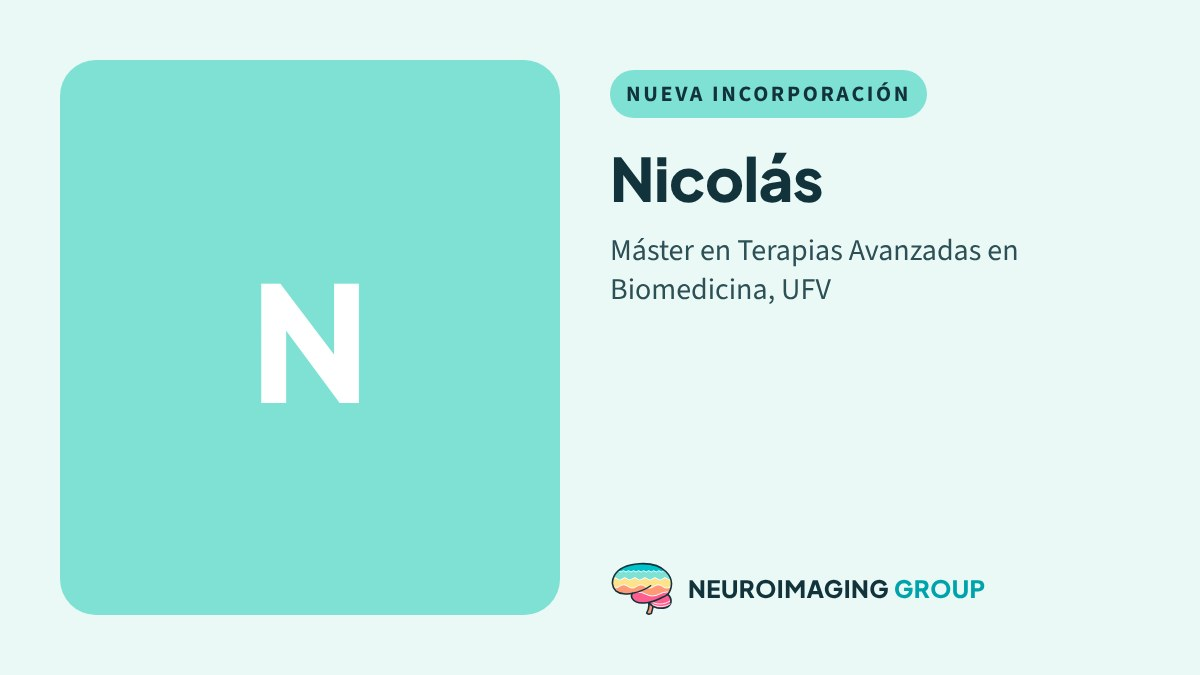
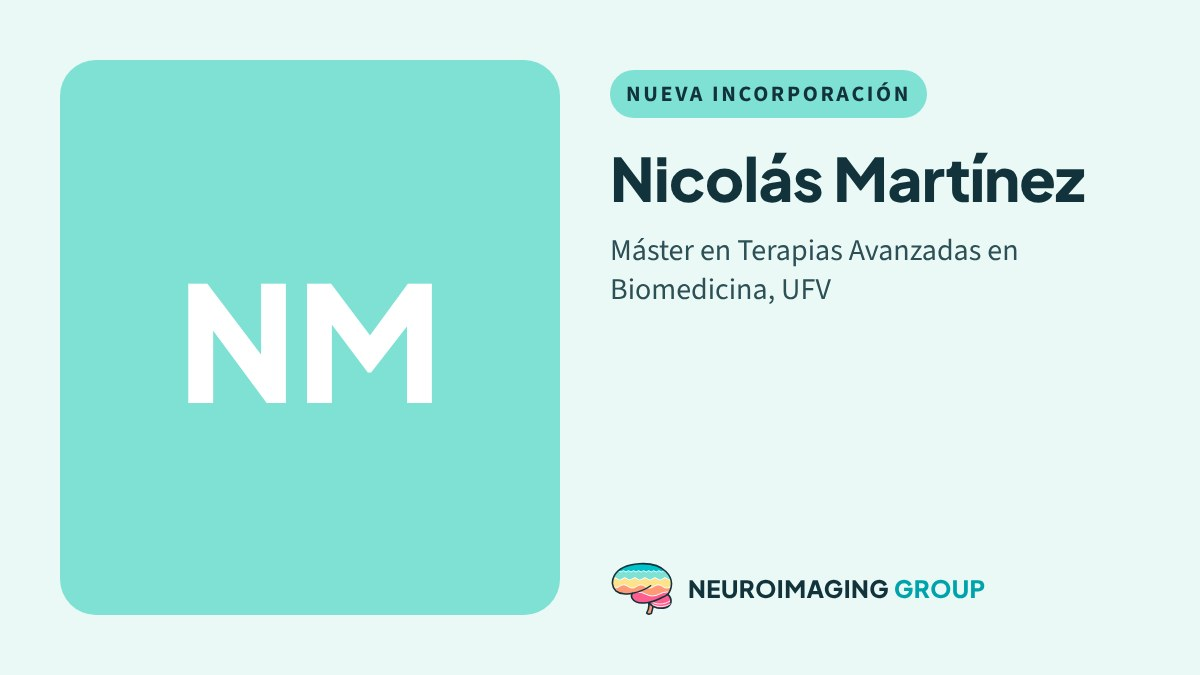
Team: add Adriana Brande, Irem Koçak, Lucía Escribano Marín, Juan Ponce, Julia Reina, Carlota Juárez, Nicolás Martínez and Rodrigo Quispe Ávila
Claude-Session: https://claude.ai/code/session_016qHx7xJtVuA2p8MXZK7uaB

Changed region(s): [[0.1542, 0.4044, 0.37, 0.6222], [0.6783, 0.2178, 0.925, 0.3111]]

diff --git a/_posts/2025-03-04-empieza-nicolas.md b/_posts/2025-03-04-empieza-nicolas.md
@@ -1,8 +1,7 @@
 ---
-title: "Nicolás se incorpora al grupo"
+title: "Nicolás Martínez se incorpora al grupo"
 date: 2025-03-04
 image: /assets/img/news/2025-03-04-nicolas.jpg
-published: false  # PENDIENTE: apellidos y foto (no aparece en el equipo)
 ---
 
-Nicolás, estudiante del Máster en Terapias Avanzadas en Biomedicina de la Universidad Francisco de Vitoria, se incorpora al grupo para hacer sus prácticas curriculares y su Trabajo de Fin de Máster sobre neuroimagen en enfermedades neurodegenerativas.
+Nicolás Martínez, estudiante del Máster en Terapias Avanzadas en Biomedicina de la Universidad Francisco de Vitoria, se incorpora al grupo para hacer sus prácticas curriculares y su Trabajo de Fin de Máster sobre neuroimagen en enfermedades neurodegenerativas.

diff --git a/_posts/2026-03-26-ultima-tanda-cajas.md b/_posts/2026-03-26-ultima-tanda-cajas.md
@@ -2,7 +2,6 @@
 title: "Última tanda de cajas"
 date: 2026-03-26
 image: /assets/img/news/2026-03-26-cajas.jpg
-published: false  # PENDIENTE: apellido y papel de Adriana
 ---
 
-Sale hacia Alcalá de Henares la última tanda de cajas del grupo, con la ayuda de Adriana y León. El laboratorio queda instalado en el Centro de Neurociencias Cajal.
+Sale hacia Alcalá de Henares la última tanda de cajas del grupo, con la ayuda de Adriana Brande y León Sobrio. El laboratorio queda instalado en el Centro de Neurociencias Cajal.

diff --git a/_posts/2026-04-01-empieza-irem.md b/_posts/2026-04-01-empieza-irem.md
@@ -1,8 +1,8 @@
 ---
-title: "Irem se incorpora al grupo"
+title: "Irem Koçak se incorpora al grupo"
 date: 2026-04-01
 image: /assets/img/news/2026-04-01-irem.jpg
-published: false  # PENDIENTE: apellidos, estudios, universidad, proyecto y foto (no aparece en el equipo)
+published: false  # PENDIENTE: estudios, universidad, proyecto y foto (no aparece en el equipo)
 ---
 
-Irem se incorpora al grupo.
+Irem Koçak se incorpora al grupo.
